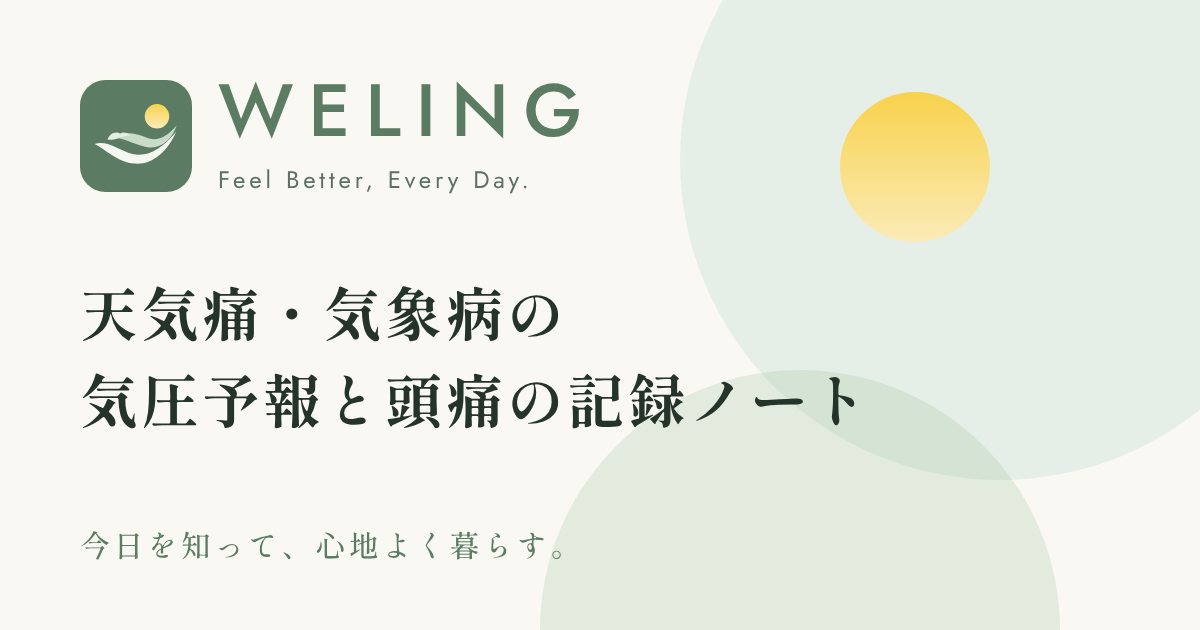
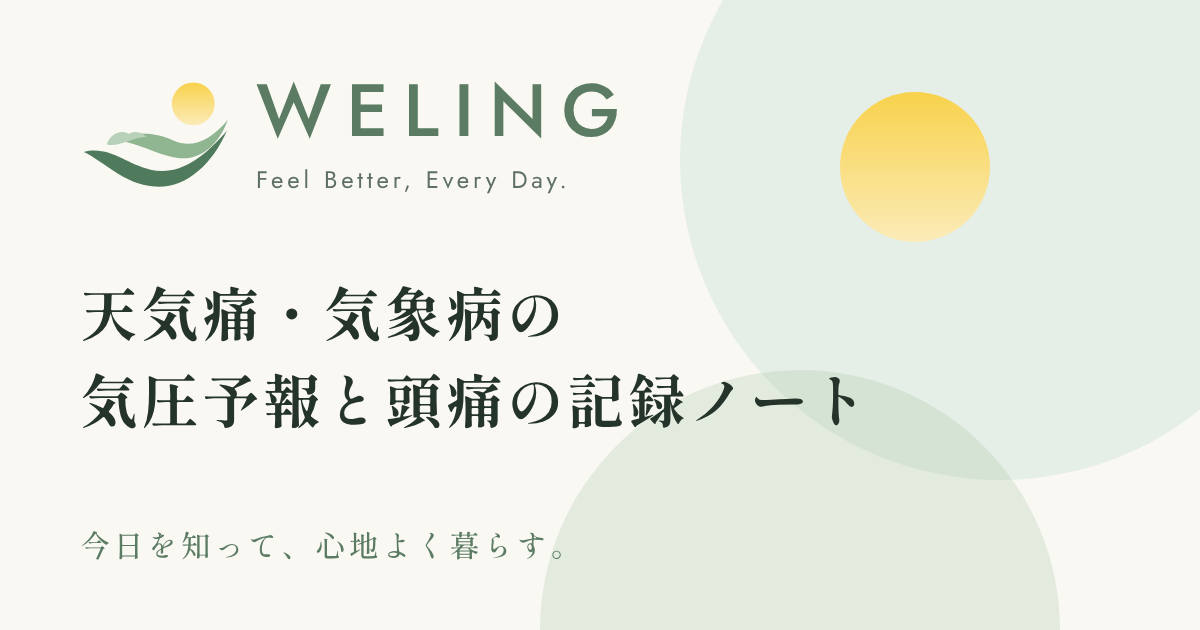
ロゴのマークは角丸の四角を外し、ヘッダーは色つき・写真の上は白抜きに変更(OG画像も同様)
Claude-Session: https://claude.ai/code/session_01GABYT29VUZzXrt2vySzu7C

Changed region(s): [[0.0617, 0.1206, 0.5242, 0.3317]]

diff --git a/src/pages.js b/src/pages.js
@@ -118,7 +118,7 @@ ${chrome ? '<link rel="stylesheet" href="/ds-pages.css">\n' : ''}${extraHead}
 <body data-page="${page}" class="${[chrome ? 'ds' : '', bodyClass].filter(Boolean).join(' ')}">
 ${chrome ? `<header class="site-h">
   <div class="wrap h-in">
-    <a class="logo" href="/" aria-label="WELING トップへ"><img src="/icon-dark.svg" alt="" width="36" height="36">${LOGO}</a>
+    <a class="logo" href="/" aria-label="WELING トップへ"><img src="/mark.svg" alt="" width="48" height="36">${LOGO}</a>
     ${page === 'app' ? '<span id="demoBadge" class="badge" hidden>デモデータ</span>' : ''}
   </div>
   <nav class="wrap nav" aria-label="メインメニュー">
@@ -176,7 +176,7 @@ export function topPage() {
 <div class="stage">
   <aside class="side" aria-label="サイト紹介">
     <div class="side-top">
-      <a class="side-logo" href="/" aria-label="WELING トップへ"><img src="/icon-dark.svg" alt="" width="84" height="84"><span class="brand-ln"><b>WELING</b><small>Feel Better, Every Day.</small></span></a>
+      <a class="side-logo" href="/" aria-label="WELING トップへ"><img src="/mark-white.svg" alt="" width="112" height="84"><span class="brand-ln"><b>WELING</b><small>Feel Better, Every Day.</small></span></a>
       <p class="side-title" aria-hidden="true">気圧の変化を、<br>先回りで知る。</p>
     </div>
     <div class="side-copy">
@@ -201,7 +201,7 @@ export function topPage() {
       <nav class="m-nav" aria-label="メインメニュー"><a href="/weather">週間天気</a><a href="/columns">コラム</a><a class="m-app" href="/app/">気圧・記録へ</a></nav>
       <h1 id="hero-title" class="m-title">気圧の変化を、<br>先回りで知る。<span class="sr-only">（WELING：天気痛・気象病の気圧予報と頭痛の記録ノート）</span></h1>
       <div class="m-brand">
-        <img src="/icon-dark.svg" alt="" width="56" height="56">
+        <img src="/mark-white.svg" alt="" width="75" height="56">
         <span class="m-word">WELING</span>
         <span class="m-read">Feel Better, Every Day.</span>
         <span class="m-tag">今日を知って、心地よく暮らす。</span>

diff --git a/public/brand.css b/public/brand.css
@@ -33,7 +33,7 @@ input, select, textarea, .ds select, .ds input, .ds textarea { border-radius: 12
 .mood { overflow: hidden; }
 .seg { border-radius: 999px; overflow: hidden; }
 .chip { border-radius: 999px; }
-.site-h .logo img { border-radius: 22%; }
+.site-h .logo img { border-radius: 0; }
 .tabs { border-radius: 18px 18px 0 0; }
 .ab-phone { border-radius: 30px; }
 /* ---- 見出し・ロゴ: WELING ---- */
@@ -62,3 +62,8 @@ input, select, textarea, .ds select, .ds input, .ds textarea { border-radius: 12
 /* トップ(写真の上)のロゴは白系で */
 .side .brand-ln small, .side-logo small { color: rgba(255, 255, 255, .85); }
 .side .brand-ln b { color: #fff; }
+
+/* アイコンのまわり(角丸の四角)は付けず、マークだけを出す。写真の上は白抜き */
+.site-h .logo img { height: 36px; width: auto; }
+.side-logo img { height: 84px; width: auto; filter: drop-shadow(0 1px 6px rgba(0, 0, 0, .25)); }
+.m-brand img { height: 56px; width: auto; filter: drop-shadow(0 1px 6px rgba(0, 0, 0, .25)); }

diff --git a/public/terms.html b/public/terms.html
@@ -17,7 +17,7 @@
 <body>
 <header class="site-h">
   <div class="wrap h-in">
-    <a class="logo" href="/" aria-label="WELING トップへ"><img src="/icon-dark.svg" alt="" width="36" height="36"><span class="ln"><b>WELING</b><small>Feel Better, Every Day.</small></span></a>
+    <a class="logo" href="/" aria-label="WELING トップへ"><img src="/mark.svg" alt="" width="48" height="36"><span class="ln"><b>WELING</b><small>Feel Better, Every Day.</small></span></a>
     <a class="h-app" href="/app/">気圧・記録へ</a>
   </div>
   <nav class="wrap nav" aria-label="メインメニュー">

diff --git a/public/sw.js b/public/sw.js
@@ -1,5 +1,5 @@
 // アプリシェルのキャッシュ + FCM(Web Push)の受信
-const CACHE = 'kiatsu-shell-v58';
+const CACHE = 'kiatsu-shell-v59';
 const SHELL = ['/app/', '/style.css', '/ds.css', '/header.css', '/brand.css', '/app.js', '/wx.js', '/faces.js', '/manifest.json', '/terms.html', '/hero/hero.js', '/hero/hero.css', '/icon.svg', '/vendor/chart.js'];
 
 self.addEventListener('install', (e) => {
